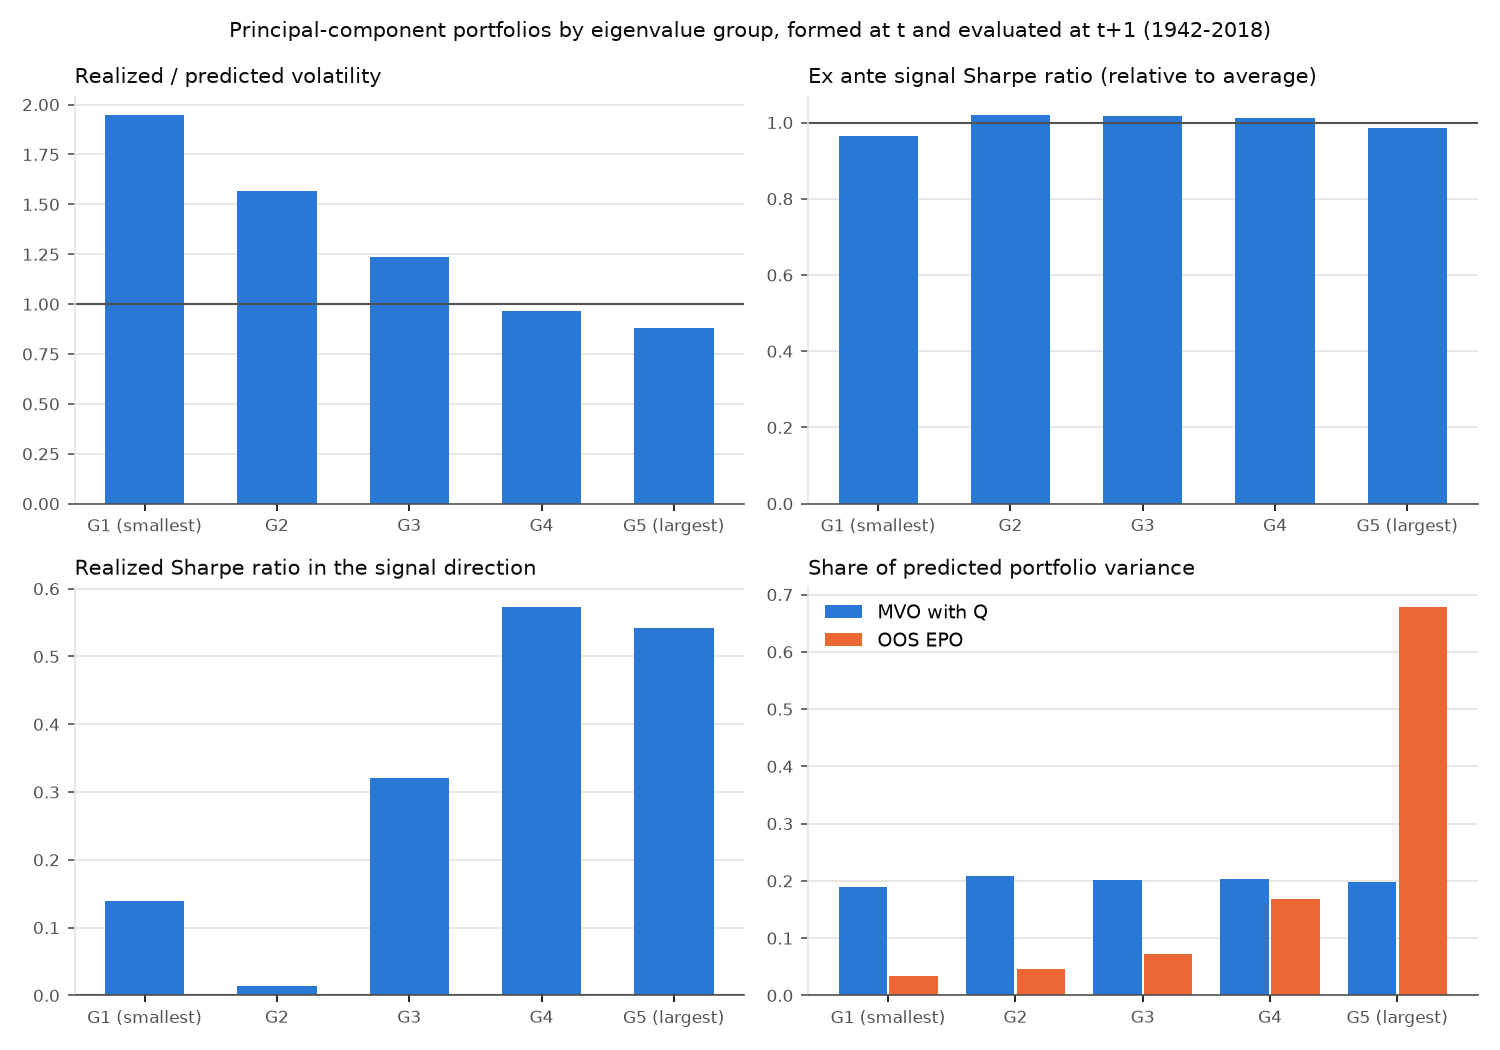
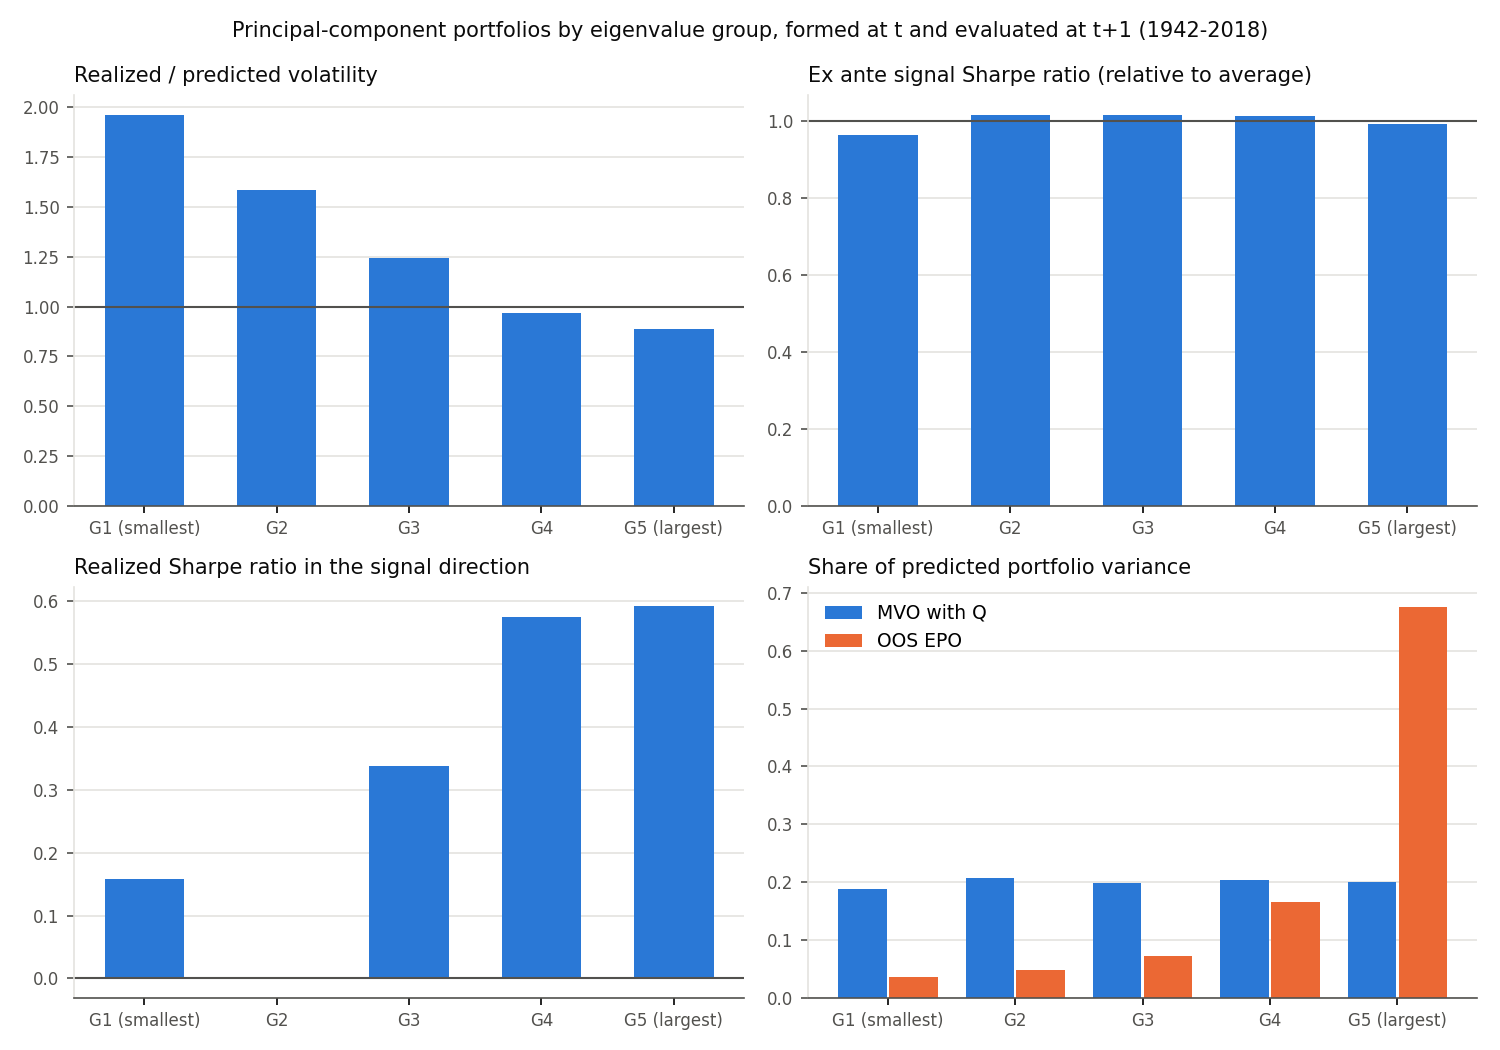
Drop months with a missing held return from the Equity 1 benchmark
A held industry with no return in month t+1 (only Rubbr, 1943-07) now leaves
that month's portfolio returns missing instead of earning zero. Selection years
whose 60-month window contains the month (1944-1948) are skipped, and every
portfolio and the PC diagnostics use the same 863 common months of 924.
OOS EPO Sharpe moves from 0.751 to 0.770, matching proposal Appendix A.

Update the benchmark outputs, the notebook and design_decisions.md, and remove
the holdout section from design_decisions.md.

diff --git a/src/epo_project/replication.py b/src/epo_project/replication.py
@@ -9,6 +9,11 @@ Each portfolio is scaled to 10% annualized predicted volatility under Q_t, and
 w is chosen each January from the preceding 60 months of candidate Sharpe
 ratios. Published Equity 1 values are shown to document differences.
 
+Missing returns: if an industry held at t has no return in month t+1, that
+month's portfolio returns stay missing (nothing is filled). A selection year
+whose 60-month window contains such a month is skipped, and every portfolio is
+evaluated over the same common months.
+
 Outputs: output/replication_table.csv, output/problem_pc_diagnostics.csv,
 output/problem_pc.png.
 """
@@ -70,7 +75,7 @@ def candidate_panel() -> tuple[pd.DataFrame, pd.DataFrame, dict, dict]:
     dates = excess.index
 
     scaled, pc_rows, share_rows = [], [], []
-    audit = {"formation_dates": 0, "missing_next_returns_set_to_zero": 0}
+    audit = {"formation_dates": 0, "months_with_missing_return": []}
     for t, (members, sigma_hat, q) in models.items():
         pos = dates.get_loc(t)
         if pos + 1 >= len(dates):
@@ -78,12 +83,15 @@ def candidate_panel() -> tuple[pd.DataFrame, pd.DataFrame, dict, dict]:
         t1 = dates[pos + 1]
         s = z.loc[t, members].to_numpy()
         r_next = excess.loc[t1, members]
-        audit["missing_next_returns_set_to_zero"] += int(r_next.isna().sum())
-        r = r_next.fillna(0.0).to_numpy()                       # not dropped with hindsight
         audit["formation_dates"] += 1
 
         weights = {"raw_mvo": solve(sigma_hat, s)}
         weights.update({w: epo_weights(q, s, w) for w in cfg.W_GRID})
+        if r_next.isna().any():                                 # leave the month's returns missing
+            audit["months_with_missing_return"].append((str(t1.date()), list(r_next[r_next.isna()].index)))
+            scaled.append({"date": t1, **{k: np.nan for k in weights}})
+            continue
+        r = r_next.to_numpy()
         scaled.append({"date": t1, **{k: scale_to_target_vol(x, q) @ r for k, x in weights.items()}})
 
         rows, shares = _pc_stats(q, s, r, weights)
@@ -104,13 +112,19 @@ def run(make_plot: bool = True) -> dict:
     scaled, pc, shares, audit = candidate_panel()
 
     grid = list(cfg.W_GRID)
-    selection = annual_selection(scaled[grid])
+    selection = annual_selection(scaled[grid])                 # skips windows containing a missing month
     oos = apply_selection(scaled[grid], selection)
+
+    # common evaluation months: every portfolio, including OOS EPO, has a return
+    panel = scaled.assign(oos=oos["return"]).loc[start:end]
+    common = panel.dropna().index
+    audit["evaluation_months"] = len(common)
+    audit["selection_years_skipped"] = [y for y in range(int(start[:4]), int(end[:4]) + 1) if y not in selection.index]
 
     # ---------------------------------------------------------------- replication table
     rows = []
     for key in ["raw_mvo", *grid, "oos"]:
-        series = (oos["return"] if key == "oos" else scaled[key]).loc[start:end]
+        series = panel.loc[common, key]
         rows.append({"portfolio": _label(key), "sharpe": annualized_sharpe(series),
                      "sharpe_published": PUBLISHED_EQUITY1.get(key, np.nan), "months": len(series)})
     table = pd.DataFrame(rows)
@@ -120,7 +134,7 @@ def run(make_plot: bool = True) -> dict:
     table.to_csv(cfg.OUTPUT_DIR / "replication_table.csv", index=False, float_format="%.4f")
 
     # ---------------------------------------------------------------- problem-portfolio diagnostics
-    pc = pc[(pc["date"] >= start) & (pc["date"] <= end)]
+    pc = pc[pc["date"].isin(common)]
     by_group = pc.groupby("group")
     oriented = pc.pivot(index="date", columns="group", values="oriented_return")
     diag = pd.DataFrame({
@@ -129,7 +143,7 @@ def run(make_plot: bool = True) -> dict:
         "ex_ante_sharpe_relative": by_group["ex_ante_sharpe_rel"].mean(),
         "realized_sharpe_signal_direction": oriented.apply(annualized_sharpe),
     })
-    months = list(oos.loc[start:end].index)
+    months = list(common)
     diag["risk_share_mvo_q"] = np.mean([shares[m][0.0] for m in months], axis=0)
     diag["risk_share_oos_epo"] = np.mean([shares[m][oos.at[m, "selected"]] for m in months], axis=0)
     diag.index.name = "eigenvalue_group"

diff --git a/output/design_decisions.md b/output/design_decisions.md
@@ -31,7 +31,7 @@ Step 0 record of the shared conventions. Parameter values live in `src/epo_proje
 | Preliminary correction | Q = 0.95 Σ̂ + 0.05 V, V = diag(Σ̂); diagonal unchanged | proposal |
 | Benchmark eligibility | At least 60 consecutive non-missing months ending at t (implies the 12 months for momentum) | proposed |
 | Minimum universe | Skip a formation date with fewer than 5 eligible industries (never binds: 40–49 industries) | proposed |
-| Missing month-t+1 return | An eligible industry whose t+1 return is missing earns 0 that month (1 case) instead of being dropped with hindsight | proposed |
+| Missing month-t+1 return | If an industry held at t has no return in t+1, that month's portfolio returns stay missing; selection years whose 60-month window contains the month are skipped; all portfolios are evaluated over the same common months. One case (Rubbr, 1943-07) removes 1943-07 and 1944–1948, leaving 863 of 924 months | decided (team convention, proposal Appendix A) |
 
 The extension adds its own requirement of 120 completed regression pairs; `eligibility.csv` stores `consecutive_months` so any history rule can be derived without recomputing.
 
@@ -50,22 +50,17 @@ The extension adds its own requirement of 120 completed regression pairs; `eligi
 
 ### Differences from the published results
 
-Over 1942–2018 the out-of-sample EPO earns a Sharpe ratio of 0.751, against 0.79 in Pedersen, Babu and Levine (2021, Table 5, Equity 1). The data, signal, 60-month risk model and 5% correction are the same; the benchmark differs from the published procedure in three conventions. A one-off diagnostic (not part of the pipeline) changed them one at a time:
+Over the 863 common months in 1942–2018 the out-of-sample EPO earns a Sharpe ratio of 0.770, against 0.79 in Pedersen, Babu and Levine (2021, Table 5, Equity 1). The data, signal, 60-month risk model and 5% correction are the same; the benchmark differs from the published procedure in three conventions and in the evaluation months. A one-off diagnostic (not part of the pipeline) changed the conventions one at a time over the same 863 months:
 
 | Positions | Selection of w | Published grid | Proposal grid |
 |---|---|---|---|
-| Unscaled | Every month, all earlier months (published procedure) | 0.797 | 0.797 |
-| Unscaled | Each January, preceding 60 months | 0.709 | 0.730 |
-| Scaled to 10% predicted volatility | Every month, all earlier months | 0.807 | 0.807 |
-| Scaled to 10% predicted volatility | Each January, preceding 60 months (proposal) | 0.745 | 0.751 |
+| Unscaled | Every month, all earlier months (published procedure) | 0.824 | 0.824 |
+| Unscaled | Each January, preceding 60 months | 0.725 | 0.747 |
+| Scaled to 10% predicted volatility | Every month, all earlier months | 0.829 | 0.831 |
+| Scaled to 10% predicted volatility | Each January, preceding 60 months (proposal) | 0.765 | 0.770 |
 
-- **Selection rule (about −0.06).** A Sharpe ratio estimated from 60 months has a standard error near 0.5, larger than the true differences across candidates (0.57 at w = 0 to 0.80 at w = 0.90 for fixed w). The rolling rule therefore often picks weak values: w = 0 in 11 of the 77 selection years 1942–2018, against never below 0.25 with the expanding window.
-- **Volatility scaling (about +0.01).** Equalizing predicted risk across months changes how much each month contributes to the Sharpe ratio; raw MVO is affected most (0.22 unscaled, 0.30 scaled) because near-singular Σ̂ produces extreme unscaled positions in some months.
+- **Selection rule (about −0.06 to −0.08).** A Sharpe ratio estimated from 60 months has a standard error near 0.5, larger than the true differences across candidates (0.59 at w = 0 to 0.83 at w = 0.95 for fixed w). The rolling rule therefore often picks weak values: w = 0 in 11 of the 72 selection years 1942–2018 (1944–1948 have no selection), against never below 0.25 with the expanding window.
+- **Volatility scaling (about +0.01 to +0.02).** Equalizing predicted risk across months changes how much each month contributes to the Sharpe ratio; raw MVO is affected most (0.23 unscaled, 0.32 scaled) because near-singular Σ̂ produces extreme unscaled positions in some months.
 - **Grid (about 0.02 at most).** Dropping 0.10 and 1.00 and adding 0.95 matters only under the rolling rule.
 - **Anchor.** With a single λ, the signal-based anchor and a zero anchor give positions that differ by the positive factor (1 − w), which the volatility scaling removes; the benchmark results do not depend on this choice.
-
-With the published procedure our implementation matches the published Sharpe ratios within 0.03 for every reported portfolio (out-of-sample EPO 0.797 against 0.79).
-
-## Holdout status
-
-Earlier exploratory work by Yuzhen (outside this repository) downloaded data through August 2026 but computed and inspected results only for 1942–2018; no design choice used 2019 or later. The 2019–2025 period has not informed the design so far.
+- **Evaluation months.** With the published procedure, the 863 common months give Sharpe ratios 0.02–0.07 above the published values (out-of-sample EPO 0.824 against 0.79). Evaluating all 924 months instead, with the single missing return set to zero, brings every published-procedure row within 0.03 of the paper (out-of-sample EPO 0.797). Dropping 1944–1948 therefore accounts for part of the gap to the published numbers.
